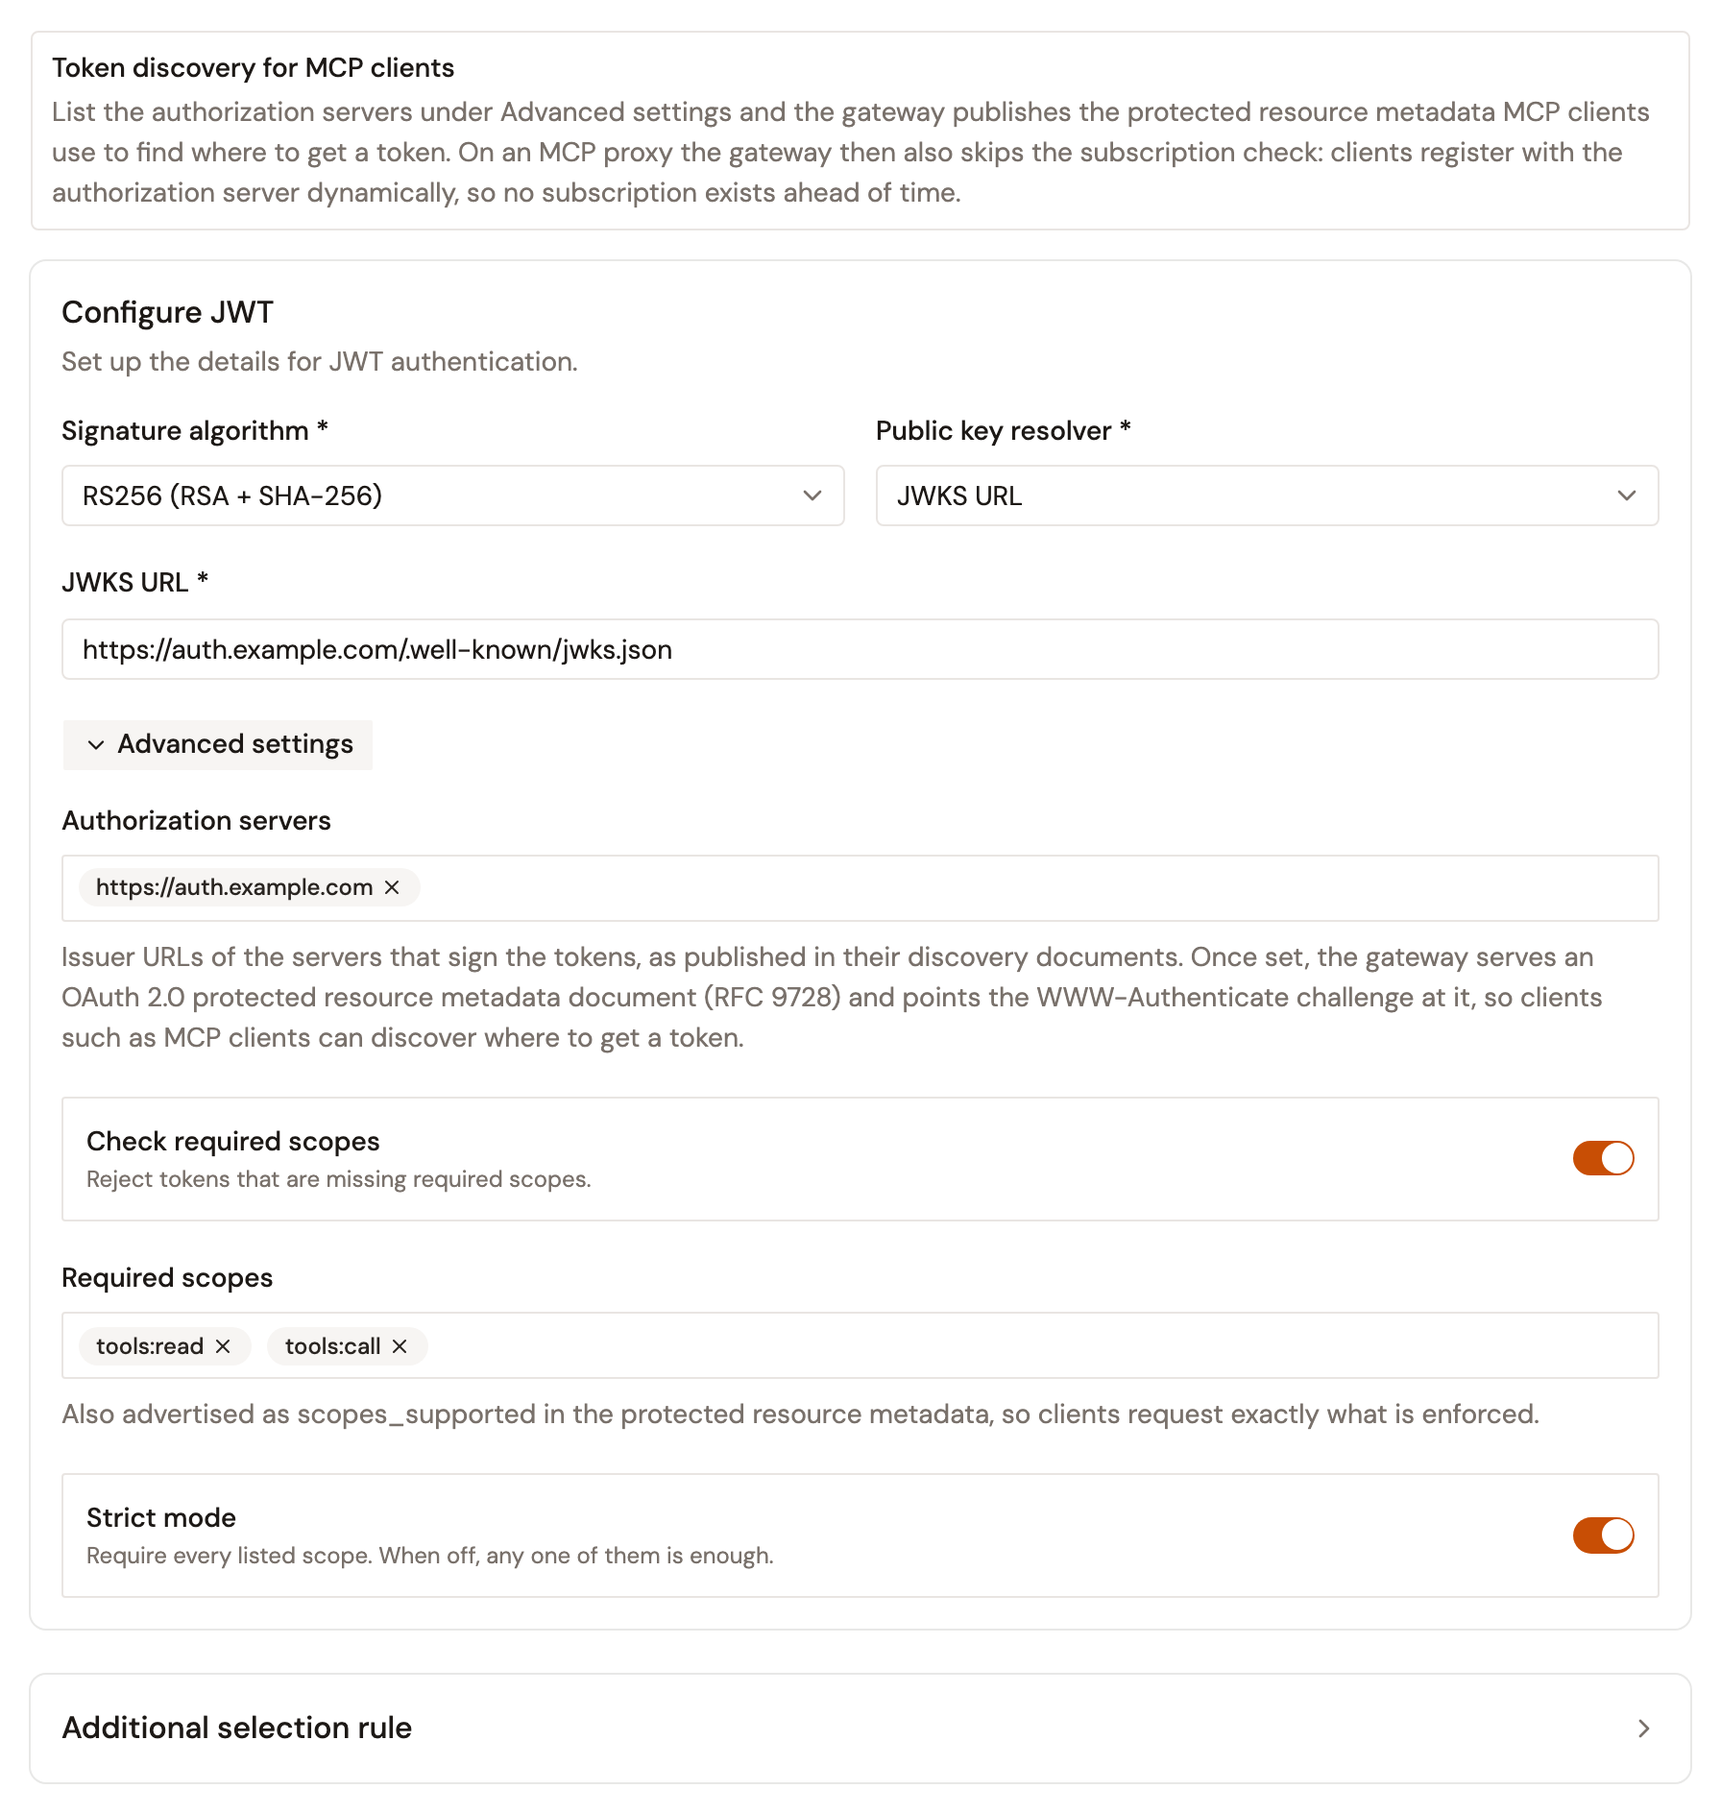
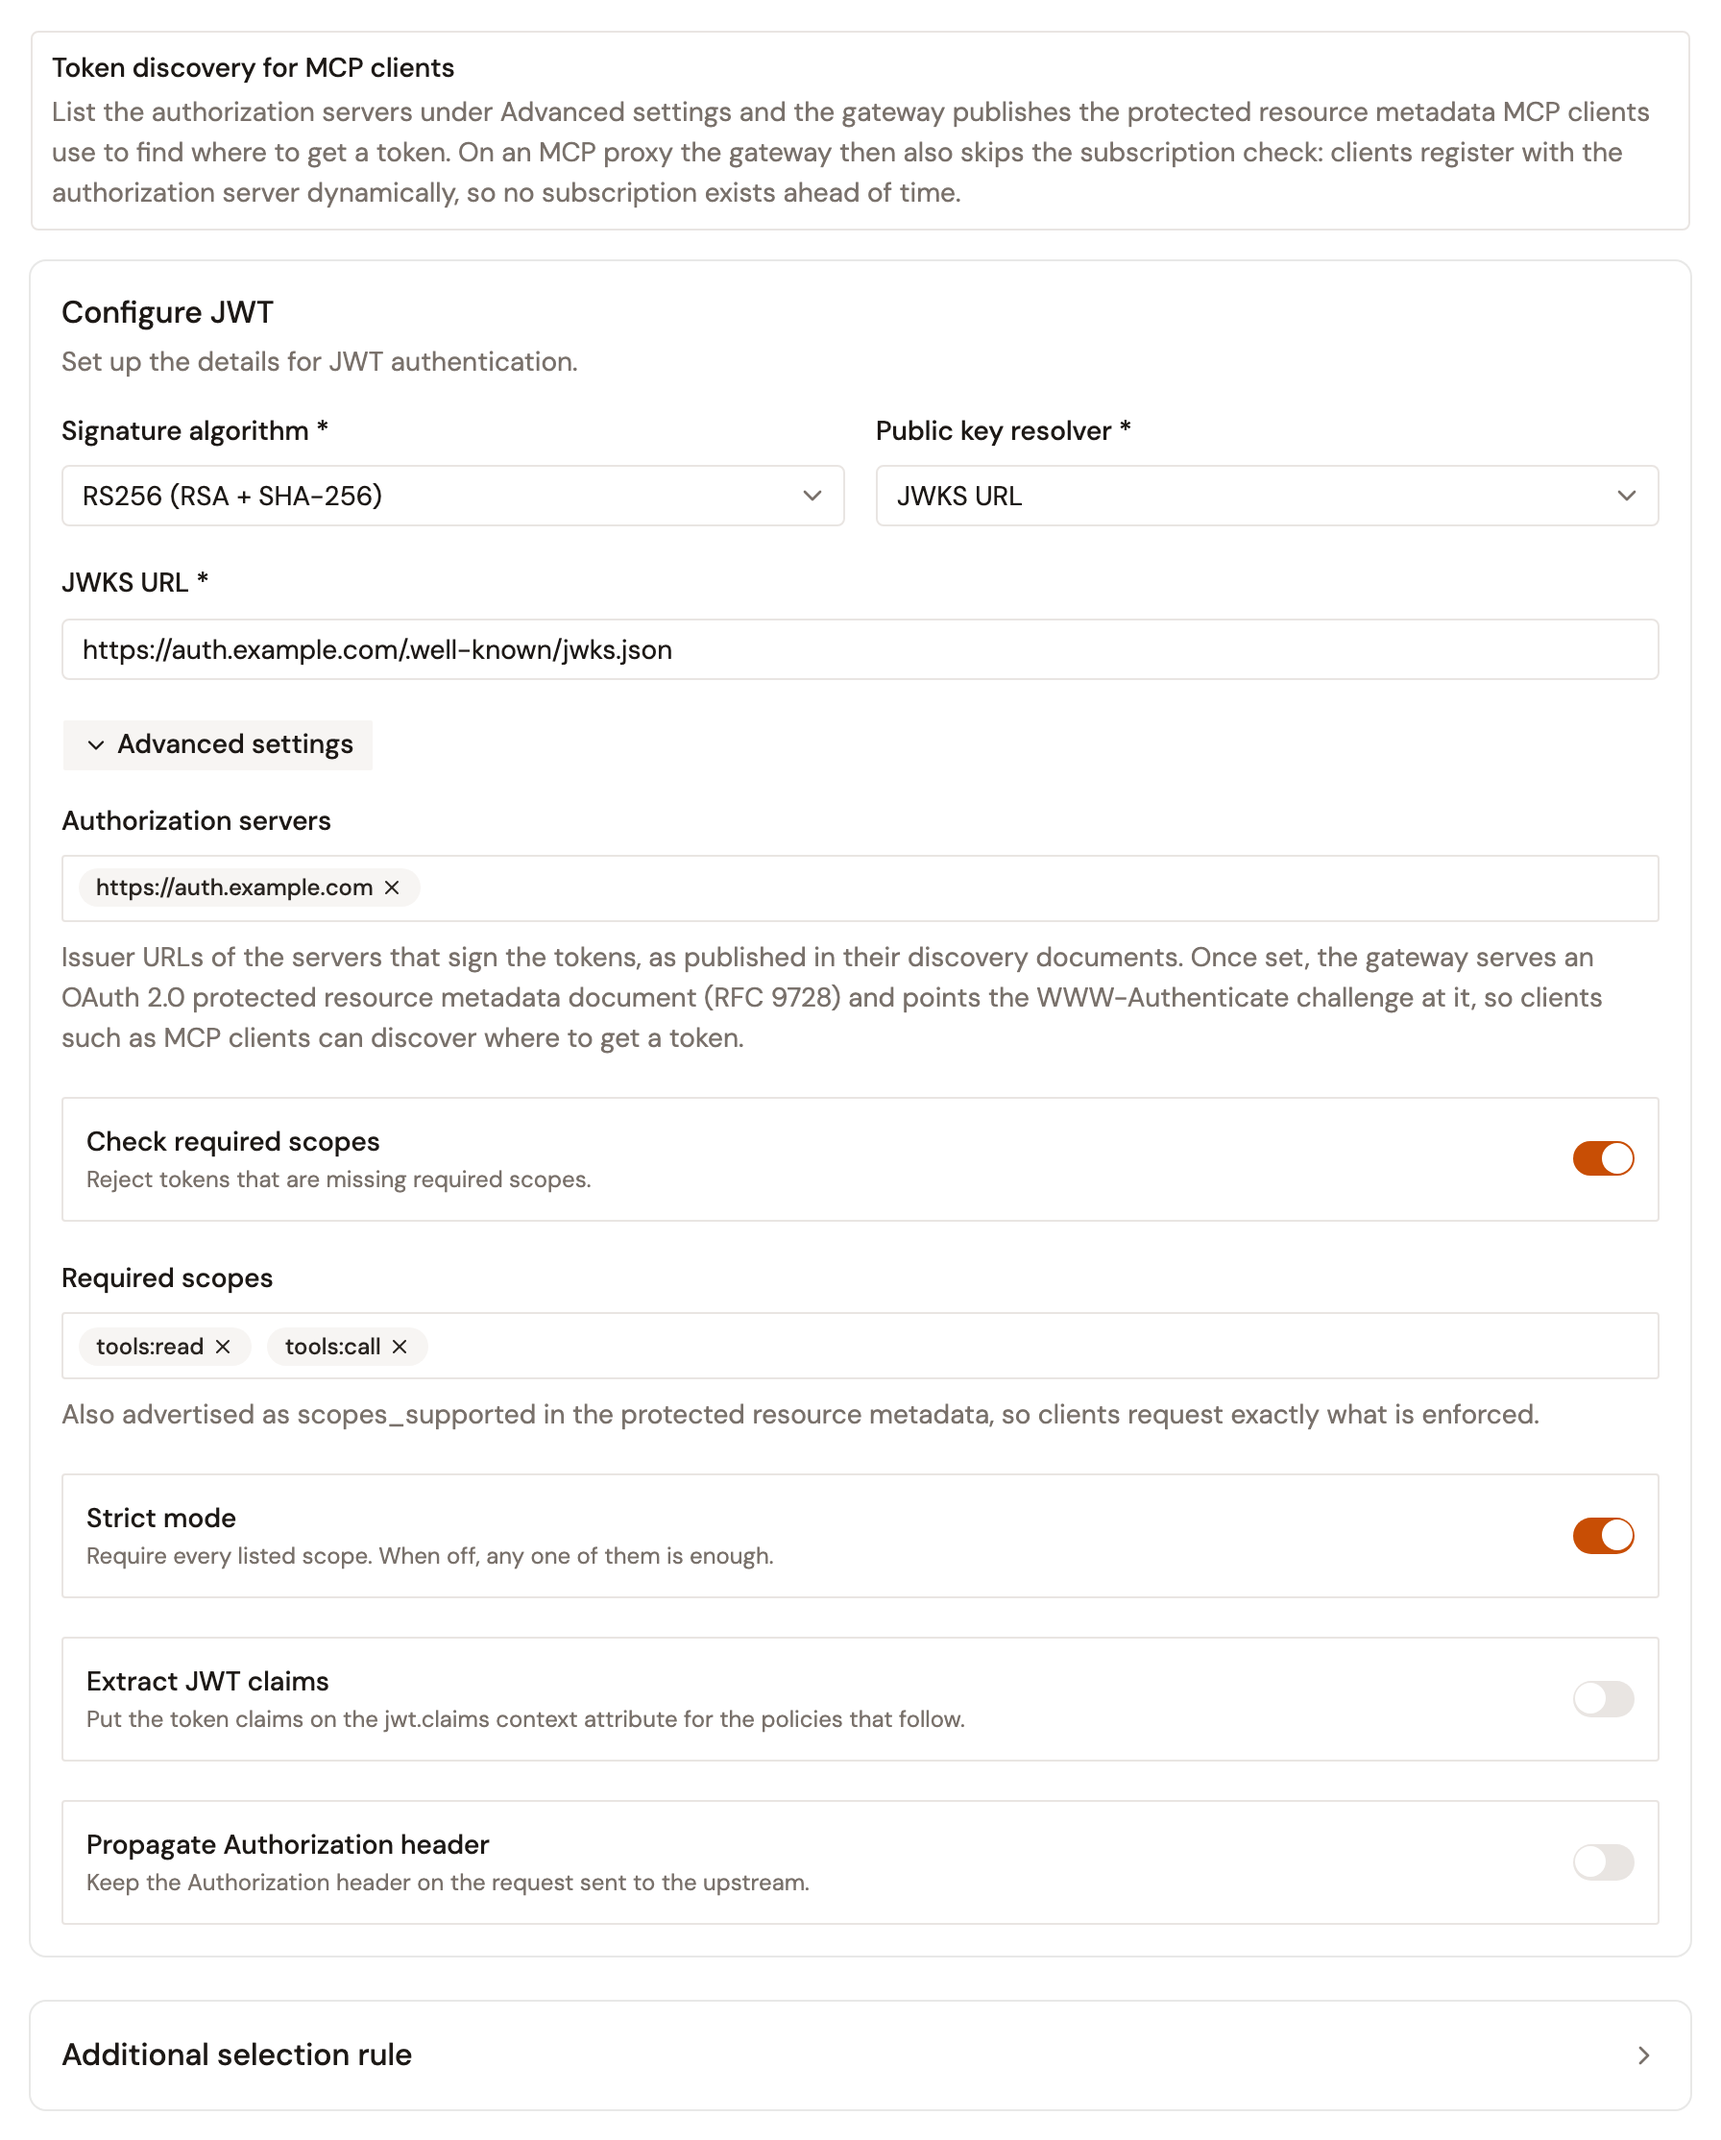
docs(gamma-4.14): add the claims and Authorization header settings of MCP JWT plans (AIAM-1338)
Manage MCP Proxy plans: add the two new Advanced settings of a JWT plan,
Extract JWT claims and Propagate Authorization header, with what each one
does and its starting state. A new plan starts with Propagate Authorization
header off. Re-capture the Security step figure, which now shows both.

Create an MCP proxy: re-capture the JWT method of the Secure step, and name
both switches in the alt text.

Exchange tokens for upstream MCP servers: add the prerequisite that a JWT
plan keeps the Authorization header, because the gateway otherwise removes
it before the policy runs.

Release notes: add the entry "JWT plan settings for MCP Proxies and MCP
Studios" to the 4.14 Agent Management section, and the breaking change to
the 4.14 breaking changes and deprecations section.

Breaking Changes and Deprecations: open the 4.14.0 section with "New JWT
plans of MCP Proxies and MCP Studios remove the Authorization header".

diff --git a/docs/gamma/4.14/platform-management/gamma-release-notes.md b/docs/gamma/4.14/platform-management/gamma-release-notes.md
@@ -8,6 +8,10 @@ For release and end-of-life dates, see [Support Model](https://documentation.gra
 
 ## 4.14 breaking changes and deprecations
 
+#### **New JWT plans of MCP Proxies and MCP Studios remove the `Authorization` header**
+
+From 4.14.0, a JWT plan that you create in Gamma for an MCP Proxy or MCP Studio starts with **Propagate Authorization header** off. After the gateway validates the token, it removes the `Authorization` header, so the policies that follow and the upstream don't receive it. In 4.13, a new JWT plan kept the header. Plans created before the upgrade keep their behavior. To keep the header on a new plan, turn on **Propagate Authorization header**. For more information, see [Breaking Changes and Deprecations](gamma-breaking-changes.md).
+
 #### **Alpine Linux images of the Gateway and the Management API are deprecated**
 
 From 4.14.0, the `graviteeio/apim-gateway` and `graviteeio/apim-management-api` images are also published with `-alpine` tags, which point to the same images as the tags without a suffix. The March 2027 release of APIM moves the tags without a suffix, including `latest`, to the Debian image. The June 2027 release stops publishing Alpine Linux images of these two components. To stay on Alpine Linux until then, switch to the `-alpine` tags. To move to Debian, use the `-debian` tags, and check how the Debian image differs before you switch. For more information, see [Breaking Changes and Deprecations](gamma-breaking-changes.md#alpine-linux-images-of-the-gateway-and-the-management-api-are-deprecated).
@@ -18,7 +22,7 @@ The 4.14 release adds the following capabilities.
 
 ### Agent Management
 
-Agent Management adds the AWS Lambda and Data Cache policies to LLM Proxies, and alerts to MCP Proxies. The pages of LLM Proxies, MCP Proxies, and A2A Proxies now name the type of proxy instead of the API. The Catalog imports an MCP server that the control plane can't reach, from the list responses you supply.
+Agent Management adds the AWS Lambda and Data Cache policies to LLM Proxies, and alerts to MCP Proxies. The pages of LLM Proxies, MCP Proxies, and A2A Proxies now name the type of proxy instead of the API. The Catalog imports an MCP server that the control plane can't reach, from the list responses you supply. JWT plans of MCP Proxies and MCP Studios gain two settings, for the claims of the token and for the `Authorization` header.
 
 #### AWS Lambda and Data Cache for LLM Proxies
 
@@ -49,6 +53,13 @@ Agent Management adds the AWS Lambda and Data Cache policies to LLM Proxies, and
 * A manual import has **Update capabilities** in place of **Re-sync**. It replaces the tools, prompts, and resources of the server with the list responses you supply.
 * The module's REST API validates list responses, imports a catalog entry, and exports one. An exported entry imports into another environment.
 * See [Import an MCP server manually](../agent-management/import/import-an-mcp-server-manually.md).
+
+#### JWT plan settings for MCP Proxies and MCP Studios
+
+* The **Advanced settings** of a JWT plan on an MCP Proxy or MCP Studio have two new switches. They appear in the **Secure** step of the MCP Proxy and MCP Studio creation wizards, and in the **Security** step of a plan.
+* **Extract JWT claims** puts the claims of the token on the `jwt.claims` context attribute, for the policies that follow. It's off by default.
+* **Propagate Authorization header** keeps the `Authorization` header on the request after the gateway validates the token. A new plan starts with it off.
+* See [Configure a JWT plan](../agent-management/build/configure-your-mcp/manage-mcp-proxy-plans.md#configure-a-jwt-plan).
 
 ### Edge Management
 

diff --git a/docs/gamma/4.14/agent-management/build/configure-your-mcp/manage-mcp-proxy-plans.md b/docs/gamma/4.14/agent-management/build/configure-your-mcp/manage-mcp-proxy-plans.md
@@ -54,7 +54,7 @@ Turn on **Propagate key to upstream** to forward the key to the upstream MCP ser
 
 A JWT plan validates tokens signed by an issuer that you already run.
 
-<figure><img src="../../.gitbook/assets/gamma-aim-mcp-proxy-create-plan-jwt.png" alt="The Security step of a new JWT plan, with the Token discovery for MCP clients message above the Configure JWT card, which shows RS256 (RSA + SHA-256), JWKS URL, and the Advanced settings section open on Authorization servers, Check required scopes, Required scopes, and Strict mode"><figcaption><p>The Security step of a JWT plan</p></figcaption></figure>
+<figure><img src="../../.gitbook/assets/gamma-aim-mcp-proxy-create-plan-jwt.png" alt="The Security step of a new JWT plan, with the Token discovery for MCP clients message above the Configure JWT card, which shows RS256 (RSA + SHA-256), JWKS URL, and the Advanced settings section open on Authorization servers, Check required scopes, Required scopes, Strict mode, Extract JWT claims, and Propagate Authorization header"><figcaption><p>The Security step of a JWT plan</p></figcaption></figure>
 
 To configure a JWT plan, follow these steps:
 
@@ -67,6 +67,8 @@ To configure a JWT plan, follow these steps:
     * **Authorization servers**. Enter the issuer URL of each server that signs the tokens, such as `https://auth.example.com`, and press Enter. An issuer URL is an absolute `http` or `https` URL with no query string or fragment.
     * **Check required scopes**. Turn it on to reject a token that misses a required scope, and then add each scope under **Required scopes**. The gateway reads the scopes from the `scope` claim of the token, or from its `scp` claim.
     * **Strict mode**. It's on by default, so a token needs every required scope. Turn it off to accept a token that has any one of them.
+    * **Extract JWT claims**. Turn it on to put the claims of the token on the `jwt.claims` context attribute, for the policies that follow. It's off by default.
+    * **Propagate Authorization header**. A new plan starts with it off. After the gateway validates the token, it removes the `Authorization` header, so the policies that follow and the upstream don't receive it. Turn it on to keep the header on the request.
 
 The gateway fetches a JWKS URL directly, without a proxy server and without following redirects, and stops waiting after 2 seconds.
 

diff --git a/docs/gamma/4.14/platform-management/gamma-breaking-changes.md b/docs/gamma/4.14/platform-management/gamma-breaking-changes.md
@@ -8,6 +8,20 @@ description: The breaking changes and deprecations in Gamma 4.13 and 4.14 that c
 
 Here are the breaking changes for versions 4.X of Gamma, grouped by module. Gamma runs on API Management, so the changes to the Gateway, the Management API, the Automation API, the Developer Portal, and the Helm chart also apply to Gamma. For those changes, see the API Management [Breaking Changes and Deprecations](https://documentation.gravitee.io/apim/release-information/breaking-changes-and-deprecations) page.
 
+### 4.14.0
+
+The following breaking change applies from Gamma 4.14.0.
+
+#### Agent Management
+
+**New JWT plans of MCP Proxies and MCP Studios remove the `Authorization` header**
+
+From 4.14.0, a JWT plan that you create in Gamma for an MCP Proxy or MCP Studio starts with **Propagate Authorization header** off. This applies to the plan that a creation wizard makes for the **JWT** method and to a plan that you create on the **Plans** page. After the gateway validates the token, it removes the `Authorization` header from the request, so the policies that follow and the upstream don't receive it. In 4.13, a new JWT plan had no such setting and kept the header.
+
+Plans created before the upgrade keep their behavior. When you edit a plan that kept the header, **Propagate Authorization header** is on.
+
+After you upgrade, turn on **Propagate Authorization header** in the **Advanced settings** of a new JWT plan when the upstream or a policy reads the consumer's token from the `Authorization` header. The token exchange in [Exchange tokens for upstream MCP servers](../agent-management/build/configure-your-mcp/exchange-tokens-for-upstream-mcp-servers.md) reads it there. For more information, see [Configure a JWT plan](../agent-management/build/configure-your-mcp/manage-mcp-proxy-plans.md#configure-a-jwt-plan).
+
 ### 4.13.0
 
 #### API Management

diff --git a/docs/gamma/4.14/agent-management/build/create-an-mcp-proxy.md b/docs/gamma/4.14/agent-management/build/create-an-mcp-proxy.md
@@ -68,7 +68,7 @@ Choose how clients authenticate to the proxy entrypoint. The wizard offers the f
 
 The wizard creates a plan for the method you choose, and publishes it whether you select **Create only** or **Create & deploy**. To add or change plans later, see [Manage MCP Proxy plans](configure-your-mcp/manage-mcp-proxy-plans.md).
 
-<figure><img src="../.gitbook/assets/gamma-aim-mcp-proxy-secure-jwt.png" alt="The JWT method selected in the Secure step, with RS256 (RSA + SHA-256), JWKS URL, and the Advanced settings section open on Authorization servers, Check required scopes, Required scopes, and Strict mode"><figcaption><p>The JWT method in the Secure step</p></figcaption></figure>
+<figure><img src="../.gitbook/assets/gamma-aim-mcp-proxy-secure-jwt.png" alt="The JWT method selected in the Secure step, with RS256 (RSA + SHA-256), JWKS URL, and the Advanced settings section open on Authorization servers, Check required scopes, Required scopes, Strict mode, Extract JWT claims, and Propagate Authorization header"><figcaption><p>The JWT method in the Secure step</p></figcaption></figure>
 
 ### Connect to the upstream MCP server
 

diff --git a/docs/gamma/4.14/agent-management/build/configure-your-mcp/exchange-tokens-for-upstream-mcp-servers.md b/docs/gamma/4.14/agent-management/build/configure-your-mcp/exchange-tokens-for-upstream-mcp-servers.md
@@ -14,6 +14,7 @@ Before you add the policy, confirm the following:
 
 * Your license includes the **OAuth 2.0 Token Exchange** policy.
 * Consumers call the MCP Proxy with an access token in the `Authorization` header, for example through an **OAuth 2.0** or a **JWT** plan.
+* For a **JWT** plan, **Propagate Authorization header** is on. A new JWT plan starts with it off, and the gateway then removes the header before the policy runs. See [Configure a JWT plan](manage-mcp-proxy-plans.md#configure-a-jwt-plan).
 * Your authorization server supports token exchange, and it has a client that's allowed to use the `urn:ietf:params:oauth:grant-type:token-exchange` grant type.
 * The Gateway can reach the token endpoint of the authorization server.
 * On the **Endpoint** page of the MCP Proxy, **Upstream authentication** is set to **No upstream auth**. A static credential sent in the `Authorization` header replaces the exchanged token.
